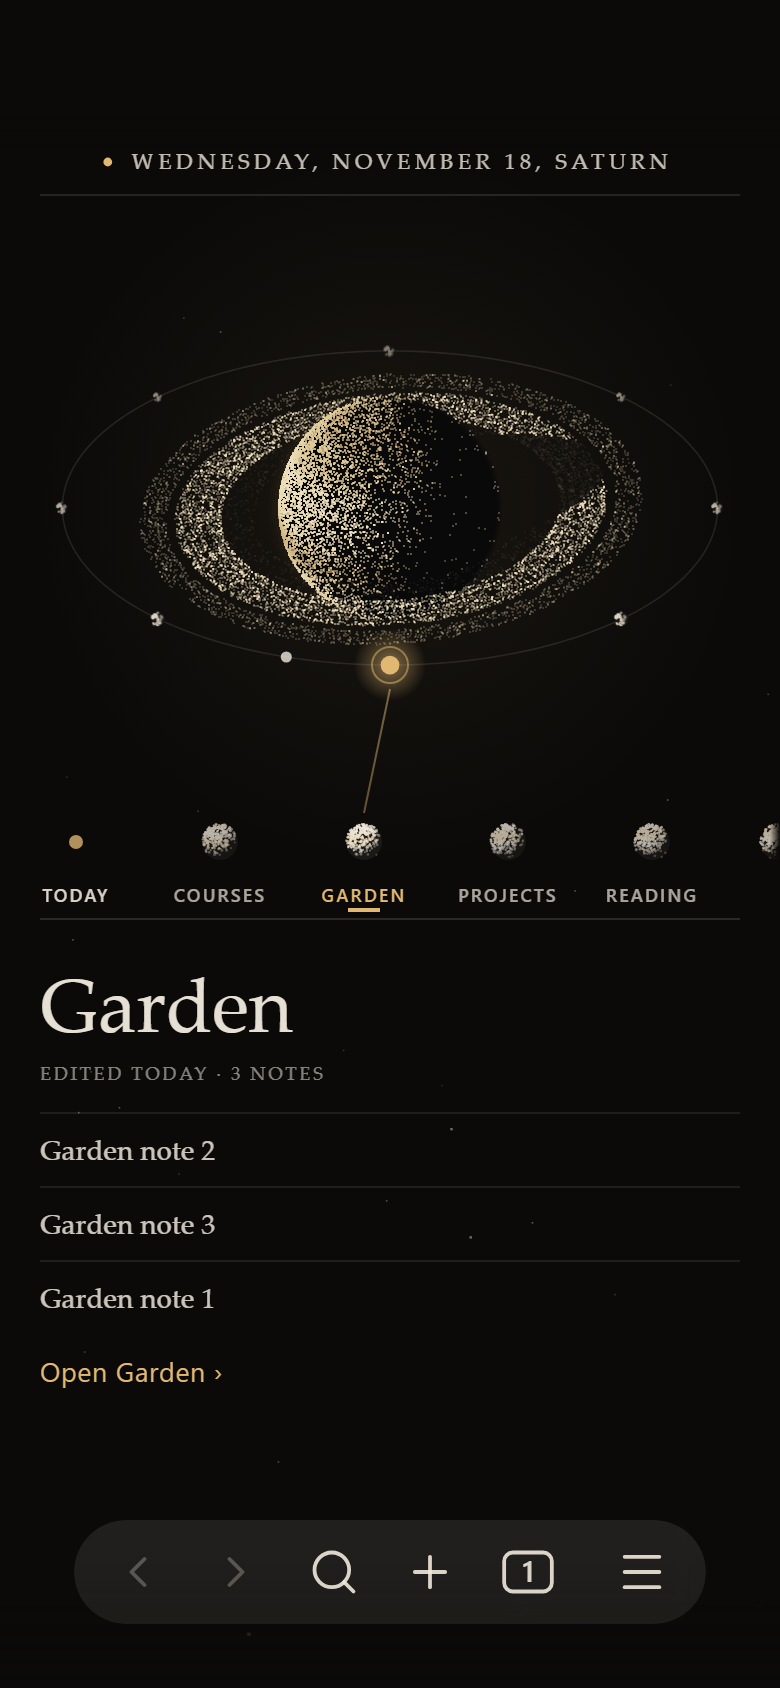
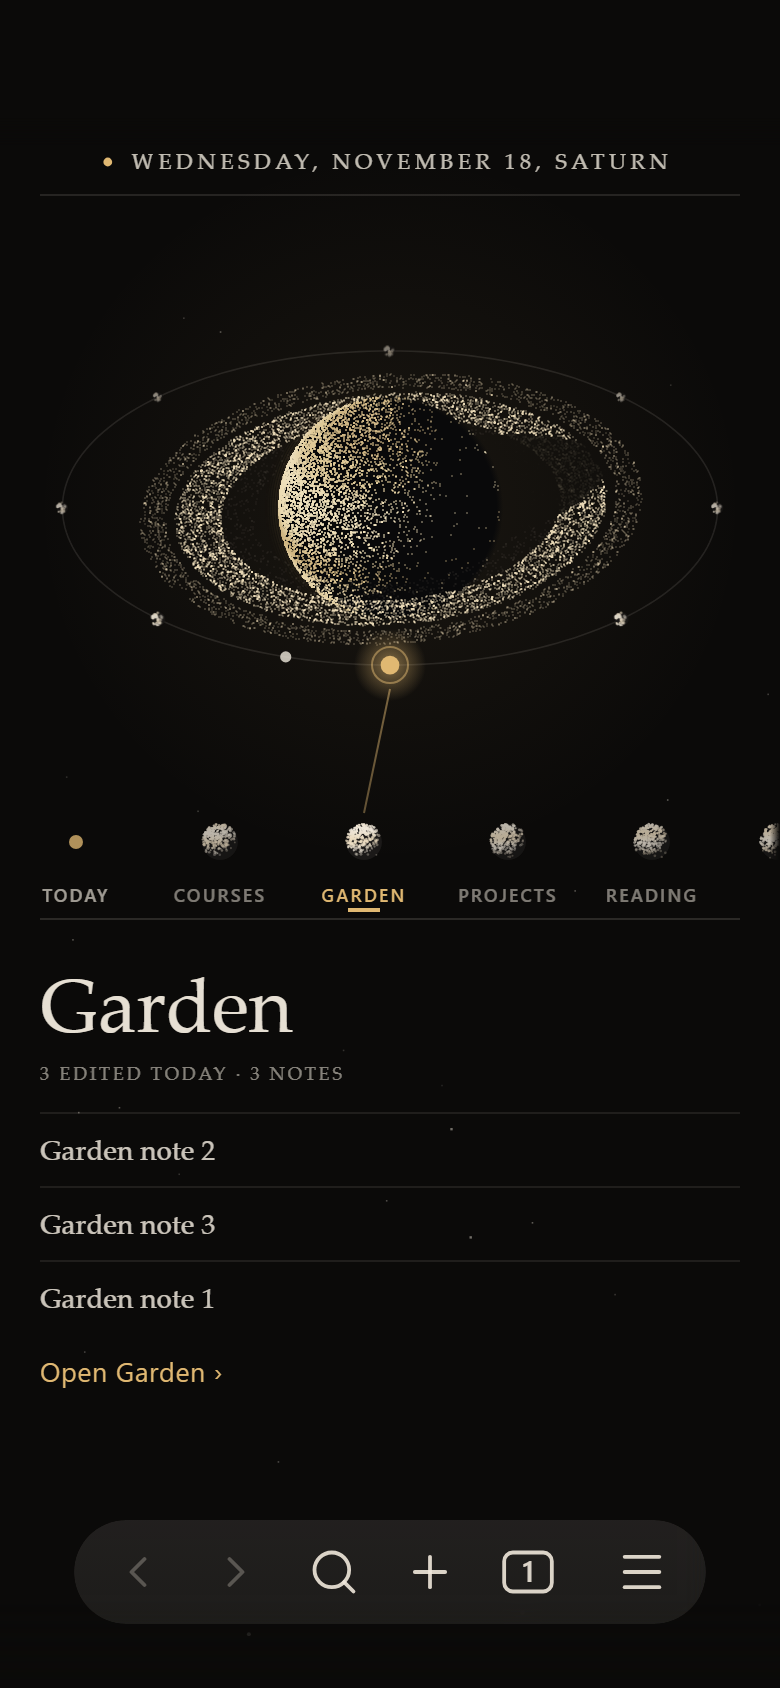
Pre-launch fixes

diff --git a/main.js b/main.js
@@ -306,6 +306,9 @@ class EclipticScene {
     this.onWorld = opts.onWorld || (() => {});
     this.onOpenHome = opts.onOpenHome || (() => {});
     this.onNewFolder = opts.onNewFolder || (() => {});
+    this.onMore = opts.onMore || (() => {});
+    this.moreN = 0; // top-level folders the Home cap leaves out (a quiet "+N more" says so)
+    this.moreRect = null;
     this.sections = [];
     this.today = null; // { short, long, path }; drawn as the accent moon
     this.moonPhase = 2.2;
@@ -422,7 +425,12 @@ class EclipticScene {
     this.dialEl.addEventListener("pointercancel", this._up);
 
     this.applyCss();
-    this.ro = new ResizeObserver(() => { this.resize(); this.start(); }); // a tab coming back into view resizes the host from nothing
+    // A tab coming back into view resizes the host from nothing. The resize itself waits for the next frame: sizing the canvas inside the
+    // observer's own callback can change the host's size again, which logs "ResizeObserver loop completed with undelivered notifications".
+    this.ro = new ResizeObserver(() => {
+      if (this._roRaf) return;
+      this._roRaf = requestAnimationFrame(() => { this._roRaf = 0; this.resize(); this.start(); });
+    });
     this.ro.observe(host);
     this._wake = () => this.start(); // the window came back (shown or focused)
     document.addEventListener("visibilitychange", this._wake);
@@ -522,6 +530,7 @@ class EclipticScene {
     // Today is pinned (sticky) once the row is scrolled, so its offset is not its place in the row: it centres at scroll 0.
     this.rowEl.scrollTo({ left: i < 0 ? 0 : c.offsetLeft + c.offsetWidth / 2 - this.rowEl.clientWidth / 2, behavior: this.reduced ? "auto" : "smooth" });
   }
+  rowKeyNow() { return `${this.world.id}|${this.sections.map((s) => s.label).join(",")}|${this.fade < 1 ? 1 : 0}|${this.moreN | 0}`; }
   buildRow(ink) {
     const row = this.rowEl, items = [{ label: "Today", today: true }, ...this.sections];
     row.replaceChildren();
@@ -543,7 +552,15 @@ class EclipticScene {
       el(b, "span", "ecl-dial-chip-name", s.label);
       b.addEventListener("click", () => { this.selectDial(j - 1); });
     });
-    this.rowKey = `${this.world.id}|${this.sections.map((s) => s.label).join(",")}|${this.fade < 1 ? 1 : 0}`;
+    if (this.moreN > 0 && this.sections.length) {
+      // The folders the cap leaves out: one quiet chip at the end of the row, same pitch as the moons. A tap opens the folder list in settings.
+      const b = el(row, "button", "ecl-dial-chip ecl-dial-chip-more");
+      el(el(b, "span", "ecl-dial-chip-art"), "span", "ecl-dial-more-n", `+${this.moreN}`);
+      el(b, "span", "ecl-dial-chip-name", "More");
+      b.title = `${this.moreN} more ${this.moreN === 1 ? "folder" : "folders"}, in settings`;
+      b.addEventListener("click", () => this.onMore());
+    }
+    this.rowKey = this.rowKeyNow();
     this.rowSynced = false;
     // The row snaps to chip boundaries, so at rest a chip is either fully in view or fully under Today (never a clipped word beside it).
     // That only holds at the far end if the longest scroll is a whole number of chips, so a spacer pads the end of the row to make it so.
@@ -764,6 +781,7 @@ class EclipticScene {
 
   destroy() {
     cancelAnimationFrame(this.raf);
+    cancelAnimationFrame(this._roRaf);
     this.ro.disconnect();
     document.removeEventListener("visibilitychange", this._wake);
     window.removeEventListener("focus", this._wake);
@@ -1503,6 +1521,7 @@ class EclipticScene {
     const W = this.w + 40, KEEP = 12, avoid = [];
     if (this.lblDebug) for (const q of this.lblDebug) if (!q.hidden && q.a > 0.05) avoid.push(q.rect);
     if (this.footRect) avoid.push(this.footRect);
+    if (this.moreRect) avoid.push(this.moreRect);
     if (lk.stars > 0.01) for (const st of this.stars) {
       const x = ((st.x - this.mouse.x * 10 * st.depth - this.yaw * 60 * st.depth) % W + W) % W - 20;
       const y = st.y - this.mouse.y * 7 * st.depth + (this.tilt - TILT) * 50 * st.depth;
@@ -1679,6 +1698,18 @@ class EclipticScene {
       this.footRect = [16, this.h - 46, dw + nw + 12, 32];
       g.globalAlpha = 1;
     }
+    // Folders the cap leaves out: a small "+N more folders" at the right end of the footer line (a click opens the folder list in settings).
+    this.moreRect = null;
+    if (this.moreN > 0 && this.sections.length) {
+      if ("letterSpacing" in g) g.letterSpacing = "0.18em";
+      g.font = `${Math.max(11.5, fs + 1)}px ${SERIF}`;
+      g.textAlign = "right"; g.textBaseline = "alphabetic";
+      const t = upper(`+${this.moreN} more ${this.moreN === 1 ? "folder" : "folders"}`), tw = g.measureText(t).width;
+      g.globalAlpha = calm; g.fillStyle = this.overMore ? `rgb(${accent})` : `rgba(${ink},0.6)`;
+      g.fillText(t, this.w - 28, this.h - 26);
+      g.globalAlpha = 1; g.textAlign = "left";
+      this.moreRect = [this.w - 28 - tw - 12, this.h - 46, tw + 24, 32];
+    }
     if ("letterSpacing" in g) g.letterSpacing = "0px";
 
     // Keyboard focus: a hairline gold ring round the moon and its label.
@@ -1687,7 +1718,8 @@ class EclipticScene {
       if (h) {
         g.lineWidth = 1;
         g.strokeStyle = `rgba(${accent},0.95)`; g.beginPath(); g.arc(h.x, h.y, 17, 0, TAU); g.stroke();
-        g.strokeStyle = `rgba(${accent},0.5)`; g.strokeRect(Math.round(h.box[0]) + 0.5, Math.round(h.box[1]) + 0.5, Math.round(h.box[2]), Math.round(h.box[3]));
+        // The box round the label only while the label is there: the hover card replaces it, and a ring round nothing looks empty.
+        g.strokeStyle = `rgba(${accent},0.5)`; if (this.hover !== this.kbFocus) g.strokeRect(Math.round(h.box[0]) + 0.5, Math.round(h.box[1]) + 0.5, Math.round(h.box[2]), Math.round(h.box[3]));
       }
     }
     if (this.hover >= 0) this.placeCard();
@@ -1910,7 +1942,8 @@ class EclipticScene {
     const list = [];
     for (const m of items) {
       const sec = m.today ? null : this.sections[m.i];
-      const name = m.today ? "TODAY" : upper(sec.label);
+      // A very long folder name is cut to a moon-sized label (the page and the dial card keep the full name); left whole it spilled off the pane and shrank the orbit to fit.
+      const name = m.today ? "TODAY" : upper([...sec.label].length > 26 ? [...sec.label].slice(0, 25).join("").trimEnd() + "…" : sec.label);
       const sub = m.today ? `${this.today.short}  ·  ${moonPhase(this.today.age).name.toLowerCase()}` : sec.live || sec.meta || "";
       const wn = wid(name, nf, "0.22em"), ws = sub ? wid(sub, sf, "0.04em") : 0;
       list.push({ m, name, sub, wn, ws, late: !m.today && sec.liveKind === "overdue", bw: Math.max(wn, ws), bh: sub ? nfs + lgap + sfs : nfs + 6 });
@@ -2189,7 +2222,7 @@ class EclipticScene {
     const g = this.ctx, n = this.sections.length;
     if (this.dialToday && Math.abs(this.yaw - this.todayYaw) > 0.12) this.dialToday = false; // the dial was turned: back to a section
     const sel = this.dialSelIndex();
-    if (this.rowKey !== `${this.world.id}|${this.sections.map((s) => s.label).join(",")}|${this.fade < 1 ? 1 : 0}`) { this.buildRow(ink); this.rowSel = -9; }
+    if (this.rowKey !== this.rowKeyNow()) { this.buildRow(ink); this.rowSel = -9; }
     if (sel !== this.rowSel) {
       this.rowSel = sel;
       [...this.rowEl.children].forEach((c, j) => c.classList.toggle("is-on", j - 1 === sel));
@@ -2551,13 +2584,18 @@ class EclipticScene {
     this.setHover(i);
     this.overPlanet = i < 0 && this.onPlanet(x, y);
     this.overDate = i < 0 && !this.overPlanet && this.onDate(x, y);
-    setCursor(this.canvas, i >= 0 || this.overPlanet || this.overDate ? "pointer" : "grab");
+    this.overMore = i < 0 && !this.overPlanet && this.onMoreHint(x, y);
+    setCursor(this.canvas, i >= 0 || this.overPlanet || this.overDate || this.overMore ? "pointer" : "grab");
     if (this.reduced) this.draw();
   }
 
   onDate(x, y) {
     const r = this.footRect;
     return !!r && x >= r[0] && x <= r[0] + r[2] && y >= r[1] && y <= r[1] + r[3];
+  }
+  onMoreHint(x, y) {
+    const r = this.moreRect;
+    return !this.dialMode && !!r && x >= r[0] && x <= r[0] + r[2] && y >= r[1] && y <= r[1] + r[3];
   }
 
   // Press starts a possible drag; a press that does not move is a click.
@@ -2635,6 +2673,7 @@ class EclipticScene {
     const i = this.hitTest(x, y);
     if (i < 0 && this.onPlanet(x, y)) { this.pinned = -1; this.setHover(-1); this.onOpenHome(this.project(0, 0, 0)); return; }
     if (i < 0 && this.onDate(x, y)) { this.nextWorld(); return; }
+    if (i < 0 && this.onMoreHint(x, y)) { this.onMore(); return; }
     if (type === "touch") {
       if (i >= 0 && i === this.pinned) { this.open(i); return; }
       this.pinned = i;
@@ -3141,6 +3180,10 @@ function parseRuns(line, today) {
   else words = "finished " + fmtDay(end, { day: "numeric", month: "short" });
   return { p: clamp(since / Math.max(1, span), 0, 1), words, done: left < 0, week, weeks, left, start: isoDay(start), end: isoDay(end) };
 }
+// "Nov 20", or "Nov 20, 1999" when the date is not in today's (pinned) year: a typo or an old task never passes for this year.
+function dueDay(iso, today) {
+  return fmtDay(iso, today && iso.slice(0, 4) !== today.slice(0, 4) ? { day: "numeric", month: "short", year: "numeric" } : { day: "numeric", month: "short" });
+}
 // A due date said the short way, from today: "today", "tomorrow", "Thu 20", "20 Nov", "3 days late".
 function dueWords(iso, today) {
   const n = dayDiff(iso, today);
@@ -3148,12 +3191,12 @@ function dueWords(iso, today) {
   if (n === 0) return "today";
   if (n === 1) return "tomorrow";
   if (n < 7) return fmtDay(iso, { weekday: "short" }) + " " + dayDate(iso).getDate();
-  return fmtDay(iso, { day: "numeric", month: "short" });
+  return dueDay(iso, today);
 }
 // "due Thu 20", or for a date already past "due 4 Oct" (and "· 3 days late" when it is overdue): the date is never dropped.
 function dueLine(iso, today, overdue) {
   if (dayDiff(iso, today) >= 0) return "due " + dueWords(iso, today);
-  return "due " + fmtDay(iso, { day: "numeric", month: "short" }) + (overdue ? " · " + dueWords(iso, today) : "");
+  return "due " + dueDay(iso, today) + (overdue ? " · " + dueWords(iso, today) : "");
 }
 function dueIn(iso, today) {
   const n = dayDiff(iso, today);
@@ -4871,7 +4914,7 @@ function makeTimeSection(view, parent, t, todayIso) {
     return sec;
   }
   const key = h.createDiv("ecl-ti-key");
-  for (const [cls, txt] of [["is-lit", "free hour you need"], ["is-sp", "spare"], ["is-rs", "an earlier deadline's"]]) { const k = key.createSpan(); k.createEl("i", { cls: "ecl-ti-p " + cls }); k.appendText(txt); }
+  for (const [cls, txt] of [["is-lit", "free hour you need"], ["is-sp", "spare"], ["is-rs", "taken by an earlier deadline"]]) { const k = key.createSpan(); k.createEl("i", { cls: "ecl-ti-p " + cls }); k.appendText(txt); }
   const hrs = (n) => (Math.round(n * 10) / 10) + " h";
   const at = (m) => { const h12 = Math.floor(m / 60) % 12 || 12, mm = m % 60; return `${h12}${mm ? ":" + pad2(mm) : ""} ${m % 1440 >= 720 ? "pm" : "am"}`; };
   const dayName = (iso) => (dayDiff(iso, todayIso) === 0 ? "Today" : fmtDay(iso, { weekday: "long" }));
@@ -5341,6 +5384,7 @@ class EclipticView extends obsidian.ItemView {
       onWorld: (w) => this.plugin.setWorld(w.id, true),
       onOpenHome: (at) => this.openLanding(HOME, at && { x: at.x, y: at.y, planet: true, r: this.scene ? this.scene.planetR() * 0.5 : 12 }),
       onNewFolder: () => this.plugin.newFolder(),
+      onMore: () => this.plugin.openSettings(),
       worlds: this.plugin.worldList(),
       sky: this.plugin.weatherSpec(),
     });
@@ -5375,23 +5419,29 @@ class EclipticView extends obsidian.ItemView {
   setLightNote(on) {
     if (this.lightNoteEl) { this.lightNoteEl.remove(); this.lightNoteEl = null; }
     if (this.scene) this.scene.footNote = !!on || !!this.themePromptEl; // the first-run block keeps clear of the line
-    if (!on) return;
+    if (!on) { this.syncFootNote(); return; }
     const n = this.lightNoteEl = this.contentEl.createDiv("ecl-lightnote");
     n.createSpan({ cls: "ecl-lightnote-text", text: "Ecliptic is dark only. To match it, set Settings → Appearance → Base color scheme to dark." });
     const x = n.createEl("button", { cls: "ecl-lightnote-x", text: "×", attr: { "aria-label": "Dismiss" } });
     x.addEventListener("click", () => { this.plugin.settings.lightNoteDismissed = true; this.plugin.save(); this.plugin.checkMode(); });
+    this.syncFootNote();
   }
+
+  // A page (Today, a folder) reserves a strip for the light-mode line or the theme question (styles.css), so neither sits over content.
+  syncFootNote() { this.contentEl.toggleClass("has-footnote", !!(this.lightNoteEl || this.themePromptEl)); }
 
   // The first-open question, in the same quiet strip as the light-mode line: serif italic, two plain text buttons.
   setThemePrompt(on) {
     if (this.themePromptEl) { this.themePromptEl.remove(); this.themePromptEl = null; }
     if (this.scene) this.scene.footNote = !!on || this.plugin.lightNoteWanted();
-    if (!on) return;
+    this.contentEl.toggleClass("has-themeprompt", !!on);
+    if (!on) { this.syncFootNote(); return; }
     const n = this.themePromptEl = this.contentEl.createDiv("ecl-lightnote ecl-themeprompt");
     n.setAttr("role", "group"); n.setAttr("aria-label", "Theme the whole app");
     n.createSpan({ cls: "ecl-lightnote-text", text: "Theme the whole app to match?" });
     const ask = (label, yes) => n.createEl("button", { cls: "ecl-themeprompt-btn", text: label }).addEventListener("click", () => this.plugin.answerTheme(yes));
     ask("Yes", true); ask("Not now", false);
+    this.syncFootNote();
   }
 
   refresh() {
@@ -5399,6 +5449,7 @@ class EclipticView extends obsidian.ItemView {
     this.scene.setWorlds(this.plugin.worldList());
     this.scene.setAmbient(this.plugin.ambient());
     this.scene.setSections(this.plugin.collect());
+    this.scene.moreN = this.plugin.hiddenFolders || 0;
     this.scene.setToday(this.plugin.today());
     Promise.all([this.plugin.taskBelt(), this.plugin.timeData().catch(() => null)]).then(([t, time]) => {
       if (!this.scene) return;
@@ -5812,6 +5863,7 @@ class EclipticView extends obsidian.ItemView {
   async onClose() {
     if (this.kbObs) { this.kbObs.disconnect(); this.kbObs = null; }
     if (this.todayRO) { this.todayRO.disconnect(); this.todayRO = null; }
+    if (this.todayTimer) { window.clearInterval(this.todayTimer); this.todayTimer = null; }
     cancelAnimationFrame(this.dotRaf);
     if (this.scene) this.scene.destroy();
     this.scene = null;
@@ -5850,7 +5902,8 @@ function taskTitle(raw) {
 // (Named taskDue, not dueIn: dueIn(iso, today) is the folder pages' "in 2 days" helper.)
 function taskDue(raw) {
   const s = noCode(raw), m = s.match(/📅\s*(\d{4}-\d{2}-\d{2})/u) || s.match(/\[\s*due\s*::\s*(\d{4}-\d{2}-\d{2})(?:[T ][\d:]+)?\s*\]/i) || s.match(/\(\s*due\s*::\s*(\d{4}-\d{2}-\d{2})(?:[T ][\d:]+)?\s*\)/i);
-  return m ? m[1] : null;
+  // A typo like 2026-02-30 or 0000-00-00 would roll over into a believable overdue date; treat it as undated instead.
+  return m && isoDay(dayDate(m[1])) === m[1] ? m[1] : null;
 }
 // An open box whose text starts struck through (~~like this~~) is finished or dropped, not open.
 function isStruck(raw) { return /^\s*[-*+]\s+\[ \]\s*~~/.test(String(raw)); }
@@ -6434,6 +6487,8 @@ class EclipticPlugin extends obsidian.Plugin {
     const on = this.lightNoteWanted();
     this.app.workspace.getLeavesOfType(VIEW_TYPE).forEach((l) => l.view && l.view.setLightNote && l.view.setLightNote(on));
   }
+  // Settings, on the Ecliptic tab (where the folder list is).
+  openSettings() { try { this.app.setting.open(); this.app.setting.openTabById(this.manifest.id); } catch (e) { new obsidian.Notice("Open Settings, then Ecliptic"); } }
   // First run, "New folder": make a folder through the vault API and put a first note in it, because a folder only becomes a moon once it holds a note.
   async newFolder() {
     const v = this.app.vault;
@@ -6540,6 +6595,7 @@ class EclipticPlugin extends obsidian.Plugin {
     const shown = this.candidates().filter((c) => this.isShown(c.folder.name));
     shown.sort((a, b) => Math.max(...b.notes.map((f) => f.stat.mtime)) - Math.max(...a.notes.map((f) => f.stat.mtime)));
     const picked = shown.slice(0, Math.max(1, this.settings.maxSections | 0));
+    this.hiddenFolders = shown.length - picked.length;
     picked.sort((a, b) => a.folder.name.localeCompare(b.folder.name, undefined, { numeric: true }));
     const t0 = this.nowDate().setHours(0, 0, 0, 0);
     return picked.map(({ folder, notes: all }) => {
@@ -6872,7 +6928,7 @@ class EclipticPlugin extends obsidian.Plugin {
     const belt = s.showTasks ? await this.taskBelt() : { open: [], doneItems: [] };
     const folderOf = (p) => { const i = p.lastIndexOf("/"); return i > 0 ? this.plain(p.slice(0, i).split("/").pop()) : ""; };
     const open = (belt.open || []).slice().sort((a, b) => (b.overdue ? 1 : 0) - (a.overdue ? 1 : 0)).slice(0, 200)
-      .map((t) => ({ title: t.title, path: t.path, line: t.line, overdue: !!t.overdue, done: false, folder: folderOf(t.path), dueIso: t.due || "", due: t.due ? fmtDay(t.due, { day: "numeric", month: "short" }) : "" }));
+      .map((t) => ({ title: t.title, path: t.path, line: t.line, overdue: !!t.overdue, done: false, folder: folderOf(t.path), dueIso: t.due || "", due: t.due ? dueDay(t.due, isoDay(now)) : "" }));
     // The week (Monday to Sunday) for the calendar under the moon: its days, the timed entries (shifts), and what falls due.
     const mon = new Date(now.getFullYear(), now.getMonth(), now.getDate() - ((now.getDay() + 6) % 7)), todayIso = isoDay(now);
     const nowMin = now.getHours() * 60 + now.getMinutes();
@@ -7424,7 +7480,7 @@ class EclipticPlugin extends obsidian.Plugin {
     for (const f of files) {
       const e = this.taskIdx.get(f.path);
       if (!e) continue;
-      for (const t of e.open) out.push({ title: t.title, path: f.path, line: t.line, dueIso: t.due, due: t.due ? fmtDay(t.due, { day: "numeric", month: "short" }) : "", overdue: !!t.due && t.due < today, mtime: e.mtime });
+      for (const t of e.open) out.push({ title: t.title, path: f.path, line: t.line, dueIso: t.due, due: t.due ? dueDay(t.due, today) : "", overdue: !!t.due && t.due < today, mtime: e.mtime });
     }
     out.sort((a, b) => (b.overdue - a.overdue) || (a.dueIso && b.dueIso ? (a.dueIso < b.dueIso ? -1 : a.dueIso > b.dueIso ? 1 : 0) : a.dueIso ? -1 : b.dueIso ? 1 : 0) || b.mtime - a.mtime);
     return out;

diff --git a/styles.css b/styles.css
@@ -1035,8 +1035,10 @@ body.ecl-view-front:not(.ecl-themed) .status-bar { background: transparent; bord
 .ecl-dial-chip {
   flex: 0 0 68px; display: flex; flex-direction: column; align-items: center; justify-content: center; gap: 3px;
   background: transparent !important; border: 0 !important; box-shadow: none !important; padding: 0; height: 58px; cursor: pointer;
-  color: rgba(var(--ecl-ink), .66); opacity: .78; transition: opacity 220ms ease, color 220ms ease;
+  opacity: .78; transition: opacity 220ms ease, color 220ms ease;
 }
+/* Its own ink, at a specificity that beats Obsidian's `button:not(.clickable-icon) { color: var(--text-color) }`: in the app's light theme that is black, and the moon names went black on the dark pane. */
+.ecl-view .ecl-dial-chip { color: rgba(var(--ecl-ink), .66); }
 .ecl-dial-chip.is-on { opacity: 1; color: rgb(var(--ecl-accent)); }
 .ecl-dial-chip { position: relative; }
 .ecl-dial-strip > .ecl-dial-chip:first-child { position: sticky; } /* (stays sticky: the relative above must not win) */
@@ -1046,6 +1048,9 @@ body.ecl-view-front:not(.ecl-themed) .status-bar { background: transparent; bord
 .ecl-dial-chip.is-cut .ecl-dial-chip-name { opacity: 0; }
 .ecl-dial-chip-art { transition: transform 200ms ease; }
 .ecl-dial-chip.is-cut-r .ecl-dial-chip-art { transform: translateX(-9px); } /* the moon of a chip cut at the right edge leans in: a disc sliver (no text) says there are more folders */
+/* The "+N More" chip at the end of the row: the same pitch as a moon, with the count where the moon would be and no sprite. */
+.ecl-dial-chip-more { opacity: .6; }
+.ecl-dial-more-n { font-family: "Iowan Old Style", "Source Serif 4", "Source Serif Pro", "Palatino Linotype", Georgia, serif; font-style: italic; font-size: 16px; letter-spacing: .02em; }
 .ecl-dial-chip-name { transition: opacity 160ms ease; text-transform: uppercase; letter-spacing: .12em; font-size: 9px; white-space: nowrap; max-width: 66px; overflow: hidden; text-overflow: ellipsis; }
 
 /* Phone: while a page flight runs, the card and the row of moons step aside (they come back when it ends). */
@@ -1250,6 +1255,12 @@ body.is-phone { --ecl-nav-clear: calc(var(--navbar-height, 52px) + max(var(--saf
 .ecl-themeprompt .ecl-themeprompt-btn.ecl-themeprompt-btn { flex: none; margin: 0; padding: 4px 10px; min-height: 28px; background: none !important; border: 0 !important; border-bottom: 1px solid rgba(var(--ecl-ink, 235,235,235), .3) !important; border-radius: 0 !important; box-shadow: none !important; font: inherit; font-style: normal; font-size: 12px; letter-spacing: .14em; text-transform: uppercase; color: rgba(var(--ecl-ink, 235,235,235), .84); cursor: pointer; }
 .ecl-themeprompt .ecl-themeprompt-btn.ecl-themeprompt-btn:hover { color: rgb(var(--ecl-ink, 235,235,235)); border-bottom-color: rgba(var(--ecl-accent, 200,170,100), .8) !important; }
 .is-phone .ecl-themeprompt { flex-wrap: wrap; }
+/* On a page (Today, a folder) the question gets its own strip and the page gives up that much room, so it never sits over content:
+   under the page on desktop, above it on the phone. On Home it keeps the spot the scene already leaves clear. */
+.ecl-view.has-footnote.is-landing .ecl-landing { bottom: 52px; }
+.ecl-view.has-footnote.is-landing .ecl-lightnote { bottom: 8px; box-shadow: none; max-width: min(700px, calc(100% - 64px)); }
+.is-phone .ecl-view.has-footnote.is-landing .ecl-landing, .ecl-view.is-phone.has-footnote.is-landing .ecl-landing { bottom: 0; top: 52px; }
+.is-phone .ecl-view.has-footnote.is-landing .ecl-lightnote, .ecl-view.is-phone.has-footnote.is-landing .ecl-lightnote { top: 4px; bottom: auto; max-width: 680px; }
 .ecl-lightnote .ecl-lightnote-x.ecl-lightnote-x:hover,.ecl-lightnote .ecl-lightnote-x.ecl-lightnote-x:focus-visible { color: rgb(var(--ecl-ink, 235,235,235)); }
 
 /* ON5 U7: phone secondary text one ink step up (the dial's count and empty line, Today's phase line, its section labels and the "N done" fold). */
@@ -1566,7 +1577,7 @@ body.is-phone.ecl-themed .HyperMD-list-line-4 { padding-inline-start: 48px !impo
 .ecl-ti-pr { display: flex; gap: 1px; }
 .ecl-ti-p { display: block; width: 4px; height: 16px; box-sizing: border-box; border-left: 1px solid rgba(var(--ecl-ink), .22); }
 .ecl-ti-p.is-lit { background: rgb(var(--ecl-accent)); border-color: rgb(var(--ecl-accent)); }
-.ecl-ti-p.is-rs { background: repeating-linear-gradient(135deg, rgba(var(--ecl-ink), .26) 0 1px, transparent 1px 4px); }
+.ecl-ti-p.is-rs { background: repeating-linear-gradient(135deg, rgba(var(--ecl-ink), .5) 0 1px, transparent 1px 4px); }
 .ecl-ti-p.is-short { border: 1px dashed var(--ecl-warn, rgb(var(--ecl-accent))); }
 .ecl-ti-dl { margin-top: 5px; font-size: 9px; letter-spacing: .12em; }
 .ecl-ti-grp.is-short .ecl-ti-dl { color: var(--ecl-warn, rgb(var(--ecl-accent))); }

diff --git a/CHANGELOG.md b/CHANGELOG.md
@@ -12,5 +12,7 @@ First release.
 - Tasks tick off in place, and today's note can be created from Today.
 - Worlds to travel between (Saturn, Earth and more), with an optional whole-app colour theme, asked once on first open.
 - Place for sunrise and sunset, with optional live weather. Both are off until you set them.
-- Works on desktop and on phones.
+- When there are more folders than fit around the planet, Home says "+N more folders"; tapping it opens the folder list in settings.
+- Due dates that cannot exist (such as 29 February in a year that has none) are ignored, and a due date in another year shows its year.
+- Works on desktop and on phones, in Obsidian's dark and light themes.
 - A demo vault is published with the release. Its date is pinned with the `debugDate` key in `data.json`.
